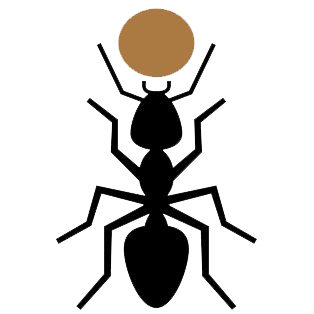
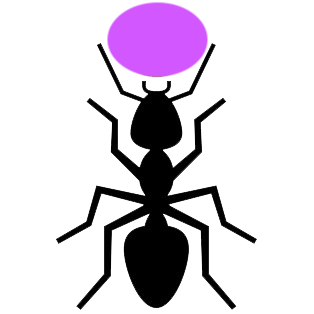
ant found food and return

Changed region(s): [[0.3153, 0.0, 0.6879, 0.258]]

diff --git a/src/objects.py b/src/objects.py
@@ -13,24 +13,37 @@ class Ant(pg.sprite.Sprite):
     '''
     Object Ant is an ant.
     '''
-    def __init__(self, position, role):
+    def __init__(self, position, status):
         super().__init__()
         self.image = image.ant
         self.rect = self.image.get_rect()
         self.rect.center = position
-        self.role = role
-        self.route = []
-    def update(self):
+        self.status = status
+        self.route = [self.rect.center]
+    def update(self, foods):
         '''encourage ants to move out of their nest'''
-        step = 7
-        possible_cord = []
-        [possible_cord.append(cord) for i in map(lambda x: [(x, c) for c in (-1*step,0,step)], (-1*step,0,step)) for cord in i]
-        possible_cord.remove((0, 0))
-        x, y = self.rect.center
-        choice = random.choice(possible_cord)
-        x += choice[0]
-        y += choice[1]
-        self.rect.center = (x, y)
+        if self.status == 'finding':
+            step = 15
+            possible_cord = []
+            [possible_cord.append(cord) for i in map(lambda x: [(x, c) for c in (-1*step,0,step)], (-1*step,0,step)) for cord in i]
+            possible_cord.remove((0, 0))
+            x, y = self.rect.center
+            choice = random.choice(possible_cord)
+            x += choice[0]
+            y += choice[1]
+            self.rect.center = (x, y)
+            self.route.append(self.rect.center)
+        elif self.status == 'found':
+            try:
+                self.rect.center = self.route.pop()
+            except IndexError:
+                self.status == 'finding'
+
+        for food in foods:
+            if pg.sprite.collide_rect(self, food):
+                self.image = image.ant_with_food
+                self.status = 'found'
+
 
 class Food(pg.sprite.Sprite):
     '''

diff --git a/src/main.py b/src/main.py
@@ -11,7 +11,7 @@ def initialize(num_ant, *args):
     '''
     nest_x, nest_y = random.randrange(0, 800), random.randrange(0, 800)
     for i in range(num_ant):
-        args[0].add(objects.Ant((nest_x, nest_y), "scout"))
+        args[0].add(objects.Ant((nest_x, nest_y), "finding"))
     args[1].add(objects.Food((random.randrange(0, 800), random.randrange(0, 800)), 50))
     args[2].add(objects.Nest((nest_x, nest_y), 50))
 
@@ -44,9 +44,10 @@ while True:
             if event.key == pg.K_SPACE:
                  start = not start
     if start:
-        ants.update()
+        ants.update(foods)
         ants.clear(surface, background)
         ants.draw(surface)
         foods.draw(surface)
         nests.draw(surface)
         pg.display.update()
+        pg.time.wait(80)
